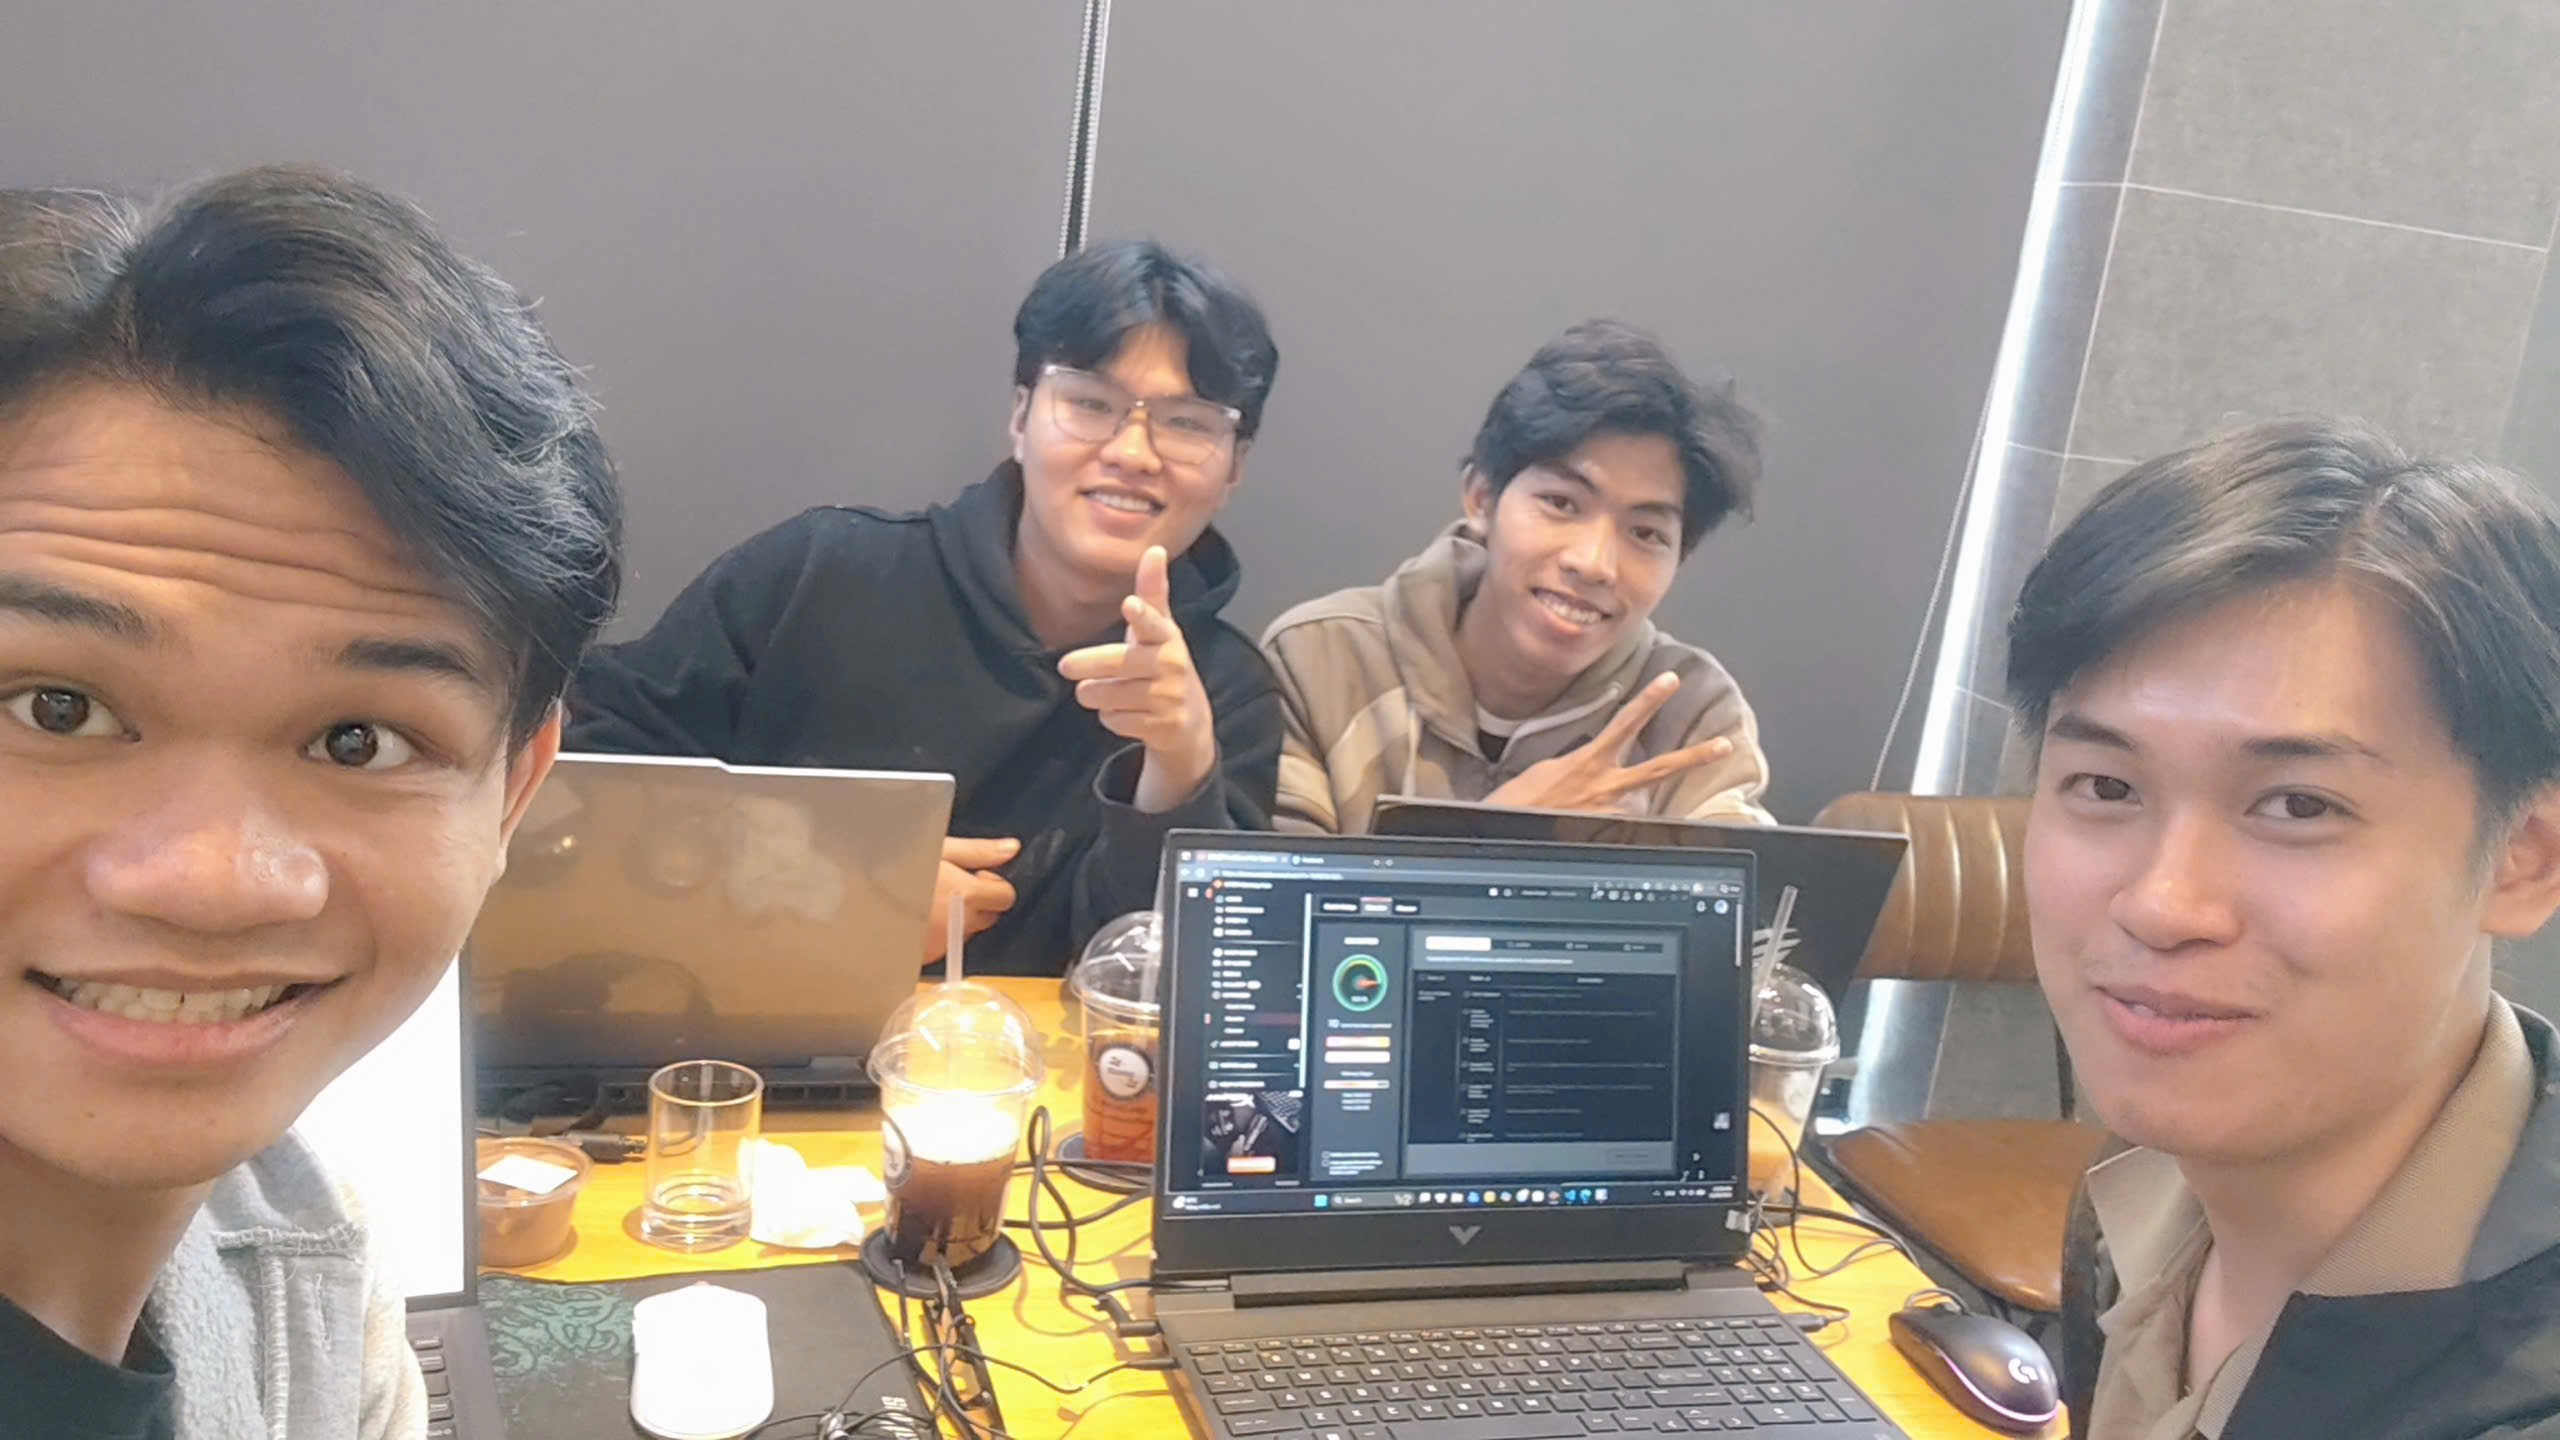
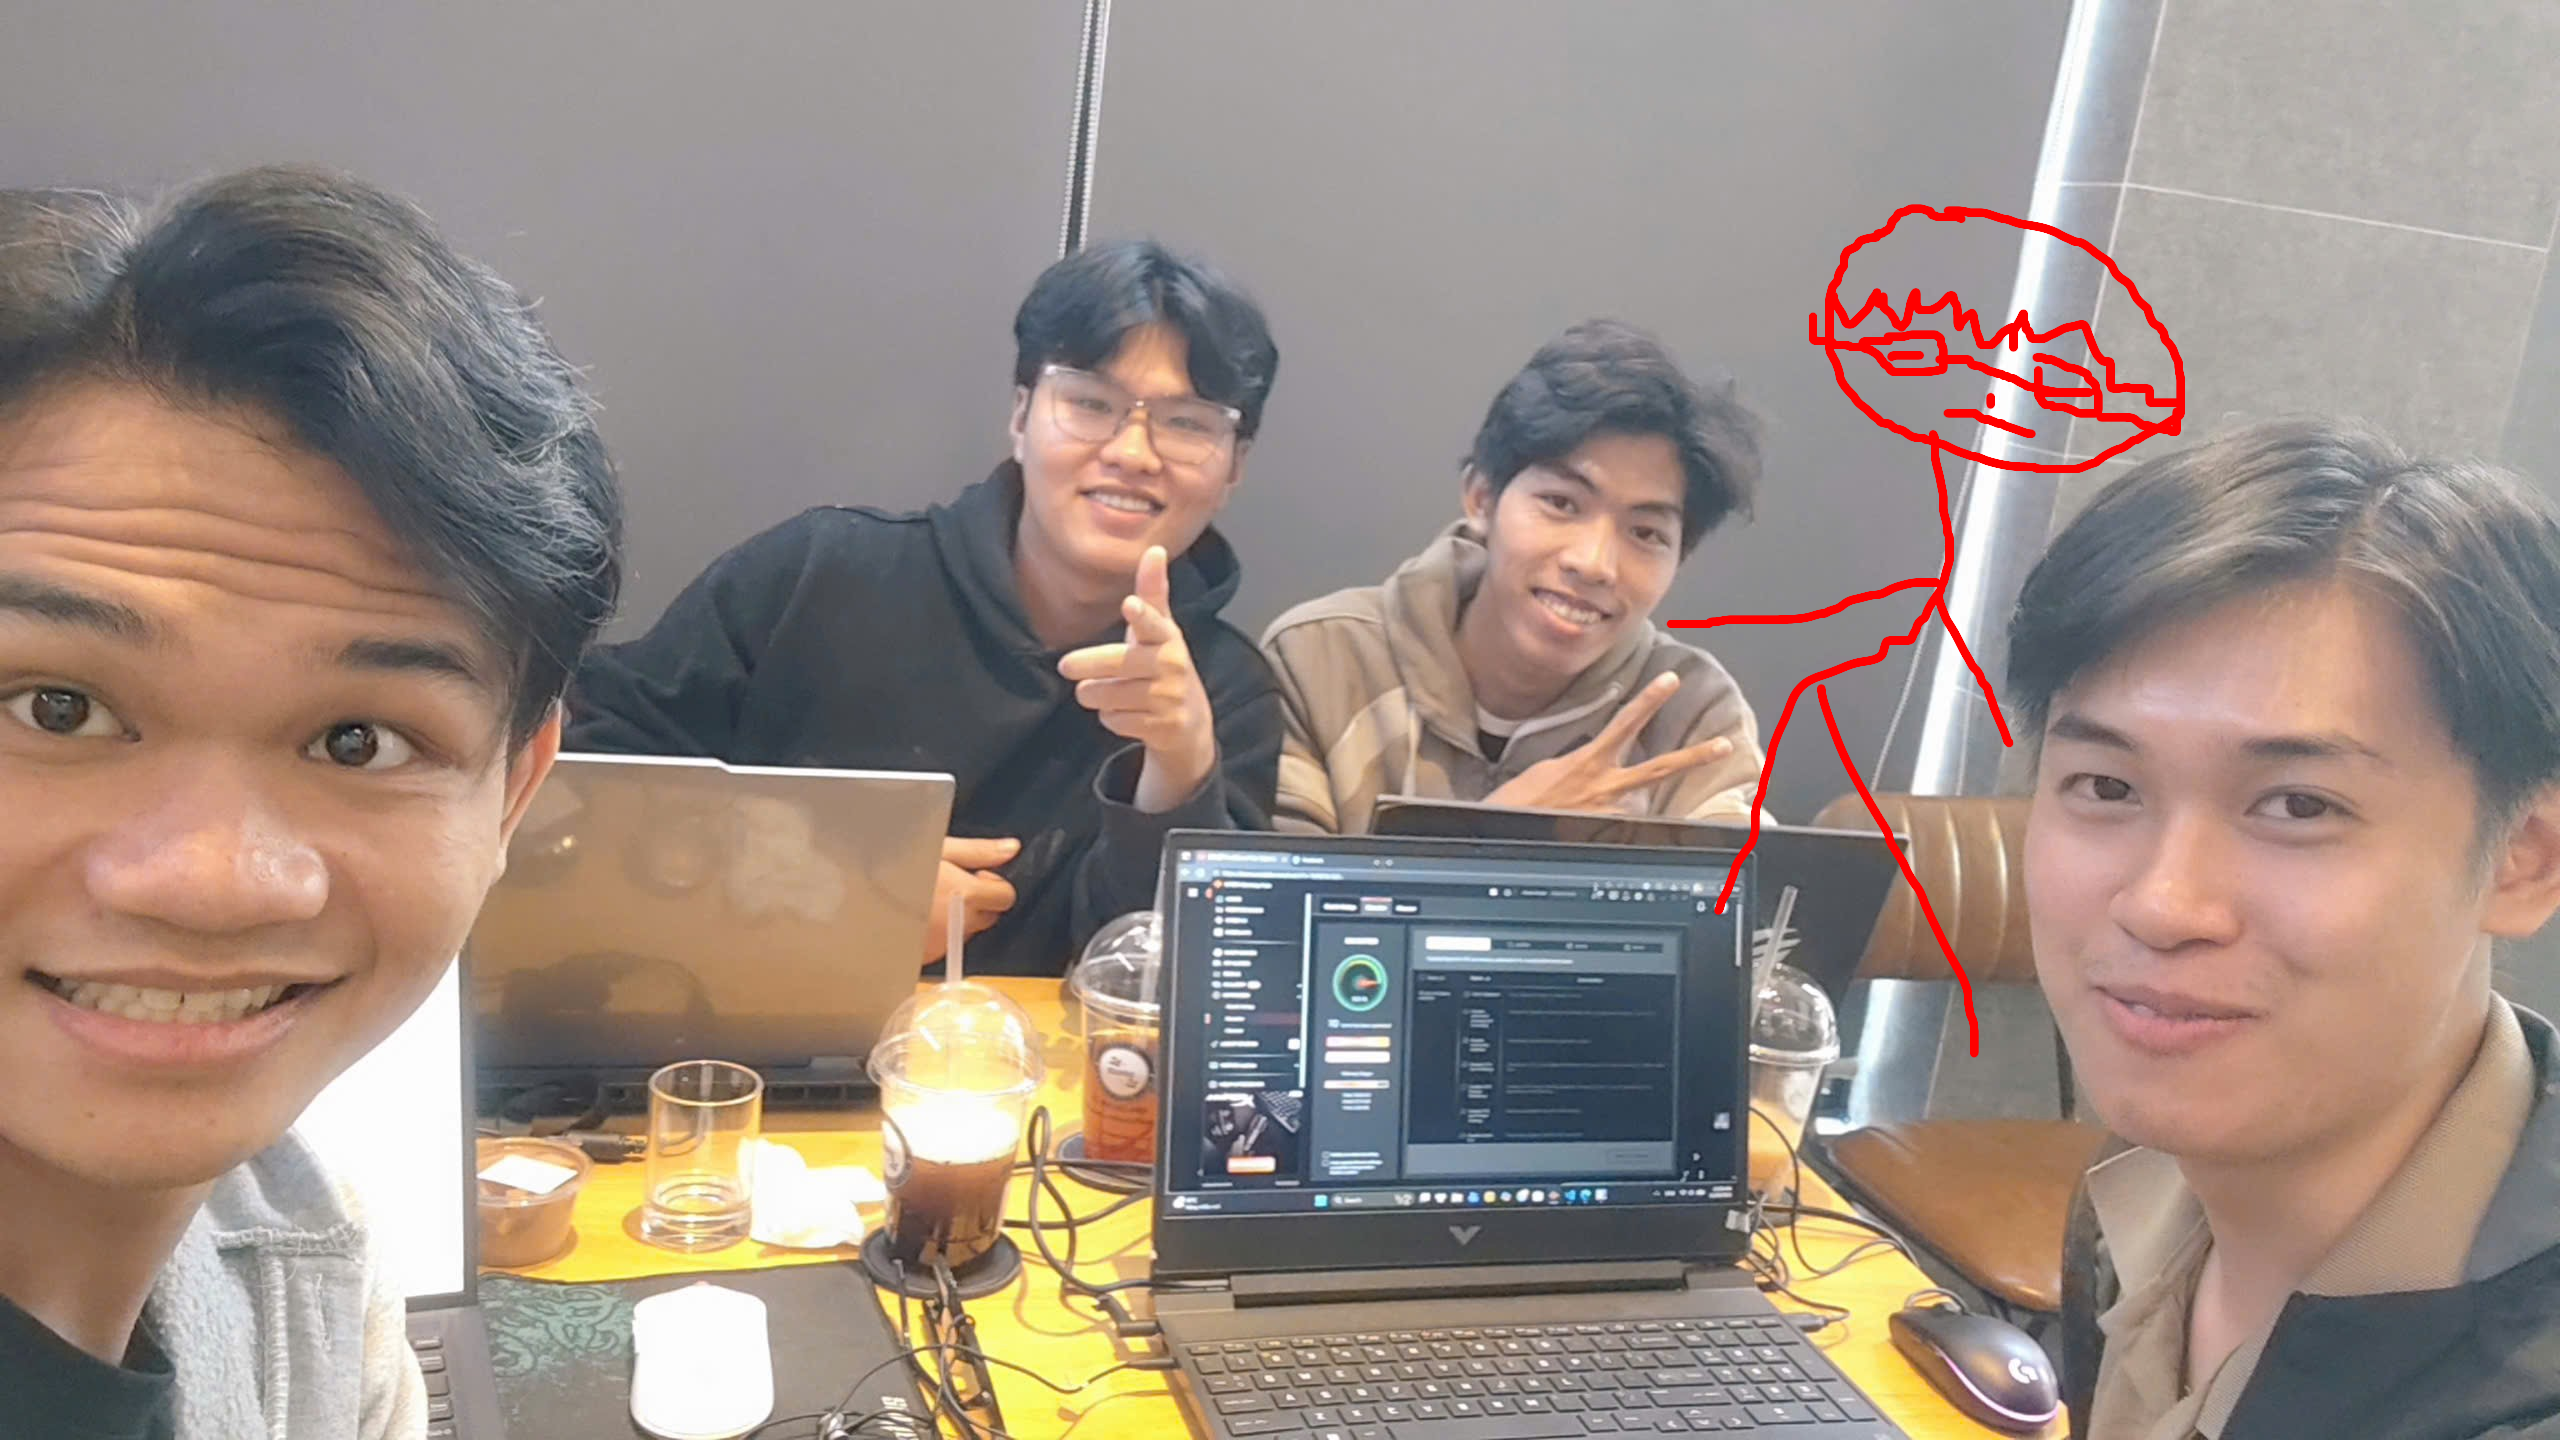
fix about us

diff --git a/src/app/(co-owner)/about-us/page.tsx b/src/app/(co-owner)/about-us/page.tsx
@@ -61,7 +61,7 @@ export default function AboutUs() {
             <div className="order-2 lg:order-1">
               <div className="space-y-6 text-lg text-gray-700 dark:text-gray-300 leading-relaxed">
                 <p>
-                  Năm 2022, 4 người bạn tại Sài Gòn cùng muốn sở hữu một chiếc <strong>VinFast VF e34</strong> để đi làm và đi chơi cuối tuần.
+                  Năm 2025, 5 người bạn tại Sài Gòn cùng muốn sở hữu một chiếc <strong>VinFast VF e34</strong> để đi làm và đi chơi cuối tuần.
                 </p>
                 <p>
                   Nhưng giá xe quá cao so với thu nhập của mỗi người. Họ thử mua chung – và nhận ra: 
@@ -72,7 +72,7 @@ export default function AboutUs() {
                   và quyết định chia sẻ nó cho tất cả mọi người.
                 </p>
                 <p>
-                  Từ một nhóm 4 người bạn, đến nay chúng tôi đã giúp hơn <strong>2.800 người</strong> tại 63 tỉnh thành 
+                  Từ một nhóm 5 người bạn, đến nay chúng tôi đã giúp hơn <strong>2.800 người</strong> tại 63 tỉnh thành 
                   cùng nhau sở hữu hơn <strong>680 chiếc xe điện</strong>.
                 </p>
               </div>
@@ -86,7 +86,7 @@ export default function AboutUs() {
                   className="shadow-xl w-full h-96"
                 />
                 <p className="text-center mt-6 text-gray-700 dark:text-gray-300 font-medium">
-                  4 người bạn sáng lập – Tháng 11/2025, quán cà phê 24H, Ghò Vấp, TP.HCM, Việt Nam
+                  5 người bạn sáng lập – Tháng 11/2025, quán cà phê 24H, Ghò Vấp, TP.HCM, Việt Nam
                 </p>
               </div>
             </div>
@@ -125,19 +125,26 @@ export default function AboutUs() {
         <div className="max-w-7xl mx-auto px-6">
           <div className="text-center mb-16">
             <h2 className="text-4xl md:text-5xl font-bold mb-6">Đội Ngũ Sáng Lập</h2>
-            <p className="text-xl text-gray-600 dark:text-gray-400">Những người đang thay đổi cách Việt Nam sở hữu xe</p>
+            <p className="text-xl text-gray-600 dark:text-gray-400">
+              Những người đang thay đổi cách Việt Nam sở hữu xe
+            </p>
           </div>
 
-          <div className="grid grid-cols-1 md:grid-cols-4 gap-10">
+          <div className="grid grid-cols-1 md:grid-cols-5 gap-10">
             {[
-              { name: "Võ Tá Duy", role: "CEO & Đồng sáng lập", desc: "8 năm kinh nghiệm fintech, cựu ZaloPay", img: "/public/images/Duy.png  " },
-              { name: "Trần Anh Tuấn", role: "CTO & Đồng sáng lập", desc: "Chuyên gia blockchain, từng làm tại Axie Infinity", img: "/team/tuan.jpg" },
-              { name: "Lê Thị Mai Anh", role: "COO & Đồng sáng lập", desc: "Quản lý vận hành 10 năm, cựu Shopee", img: "/team/maianh.jpg" },
-              { name: "Phạm Hoàng Nam", role: "CPO & Đồng sáng lập", desc: "Thiết kế sản phẩm, từng dẫn dắt MoMo redesign", img: "/team/nam.jpg" },
+              { name: "Võ Tá Duy", role: "CEO & Đồng sáng lập", desc: "Có kinh nghiệm làm be và fe", img: "/images/Duy.png" },
+              { name: "Trần Nguyễn Thành Hiển", role: "CEO & Đồng sáng lập", desc: "Có kinh nghiệm làm be và fe", img: "/images/Hien.png" },
+              { name: "Đặng Minh Tiến", role: "CEO & Đồng sáng lập", desc: "Có kinh nghiệm làm be và fe", img: "/images/Tien.png" },
+              { name: "Võ Quốc Tuấn", role: "CEO & Đồng sáng lập", desc: "Có kinh nghiệm làm be và fe", img: "/images/Tuan.png" },
+              { name: "Phạm Gia Khôi", role: "CEO & Đồng sáng lập", desc: "Có kinh nghiệm làm be và fe", img: "/images/Khoi.png" },
             ].map((member) => (
               <div key={member.name} className="group text-center">
                 <div className="relative overflow-hidden rounded-3xl mb-6">
-                  <div className="bg-gray-200 border-2 border-dashed rounded-3xl w-full h-80" />
+                  <img 
+                    src={member.img} 
+                    alt={member.name} 
+                    className="w-full h-80 object-cover rounded-3xl shadow-lg"
+                  />
                   <div className="absolute inset-0 bg-linear-to-t from-black/70 to-transparent opacity-0 group-hover:opacity-100 transition-opacity flex items-end justify-center pb-6">
                     <p className="text-white font-semibold">{member.role}</p>
                   </div>
@@ -150,6 +157,7 @@ export default function AboutUs() {
           </div>
         </div>
       </section>
+
 
       {/* FINAL CTA */}
       <section className="py-24 bg-linear-to-r from-teal-600 to-cyan-600">

diff --git a/src/app/(co-owner)/about-us/layout.tsx b/src/app/(co-owner)/about-us/layout.tsx
@@ -11,7 +11,7 @@ export default function AboutUsPage({
   return (
     <div className="flex flex-col min-h-screen">
       <Header />  
-      <main className="grow max-w-7xl mx-auto w-full px-4 py-8">
+      <main>
         {children}
       </main>
 
